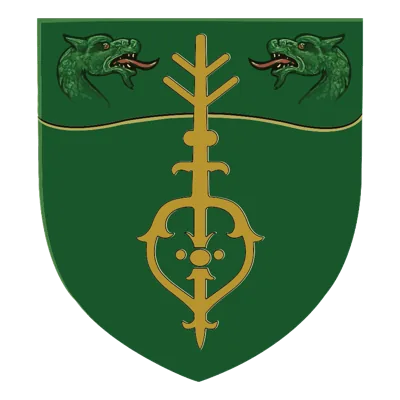
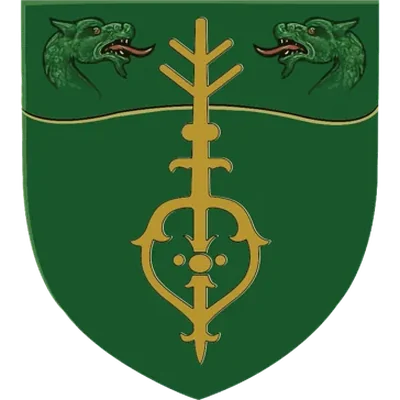
Title: An Armorial Selection of Supporters; Kinfauns 62%; Rothes refit to full tile

Changed region(s): [[0.03, 0.0, 0.96, 1.0]]

diff --git a/src/app/supporters/page.tsx b/src/app/supporters/page.tsx
@@ -31,7 +31,7 @@ export default function SupportersPage() {
             className="rise mt-4 font-display leading-[1.02] text-parchment-50"
             style={{ animationDelay: "0.08s", fontSize: "clamp(2.2rem, 4.6vw, 3.6rem)" }}
           >
-            An Armorial of Supporters
+            An Armorial Selection of Supporters
             <span className="mt-2 block text-[0.52em] leading-snug text-parchment-200/85">
               of the work of the Association
             </span>